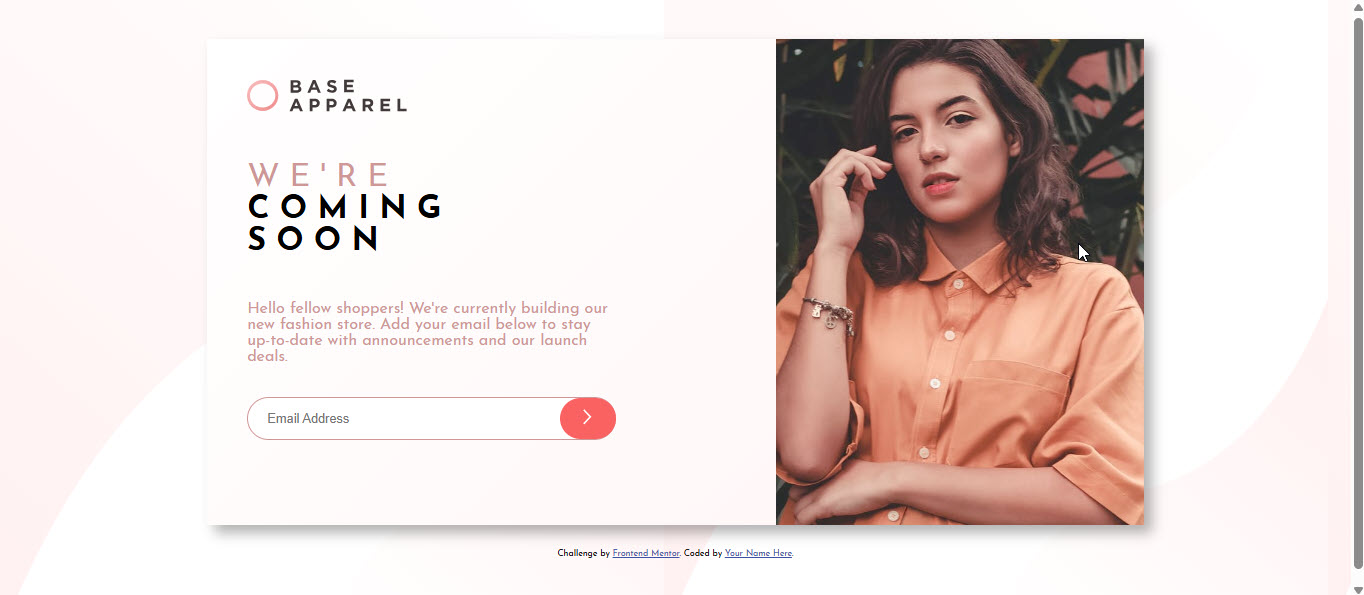
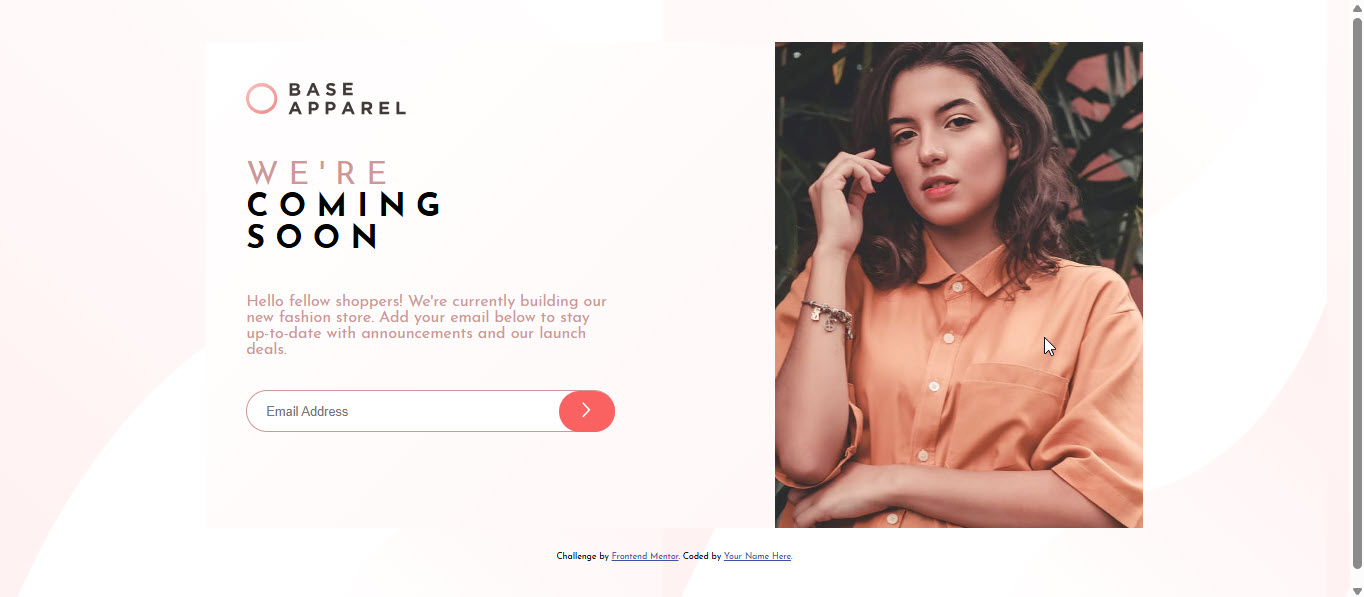
First update

diff --git a/styles.css b/styles.css
@@ -27,14 +27,11 @@ body {
 .container {
     width: 70%;
     margin-bottom: 20px;
-}
-
-.card {
     display: flex;
     flex-direction: row;
     background: linear-gradient(135deg, hsl(0, 0%, 100%), hsl(0, 100%, 98%));
-    box-shadow: 10px 10px 16px rgba(0, 0, 0, 0.3);
 }
+
 
 .left-box {
     width: 40%;
@@ -137,6 +134,39 @@ input:focus {
     height: 100%;
     object-fit: cover;
 }
+
+@media (max-width: 768px) {
+    .container {
+      flex-direction: column-reverse;
+      padding: 0;
+    }
+  
+    .left-box, .right-box {
+      padding: 2rem;
+    }
+  
+    .hero-img {
+      width: 100%;
+      height: auto;
+    }
+  
+    h1 {
+      font-size: 2rem;
+      text-align: center;
+    }
+  
+    p {
+      text-align: center;
+    }
+  
+    form {
+      width: 100%;
+    }
+  
+    .form-group {
+      flex-direction: row;
+    }
+  }
 
 .attribution { font-size: 11px; text-align: center; }
 .attribution a { color: hsl(228, 45%, 44%); }

diff --git a/index.html b/index.html
@@ -11,7 +11,6 @@
 </head>
 <body>
   <main class="container">
-    <section class="card">
       <div class="left-box">
         <img src="./images/logo.svg" alt="logo" class="logo">
         <h1><span>W e ' r e</span><br>C O M I N G<br>S O O N</h1>
@@ -34,7 +33,6 @@
       <div class="right-box">
         <img src="./images/hero-desktop.jpg" alt="hero-img" class="hero-img">
       </div>
-    </section>
   </main>
   <footer>
     <p class="attribution">
